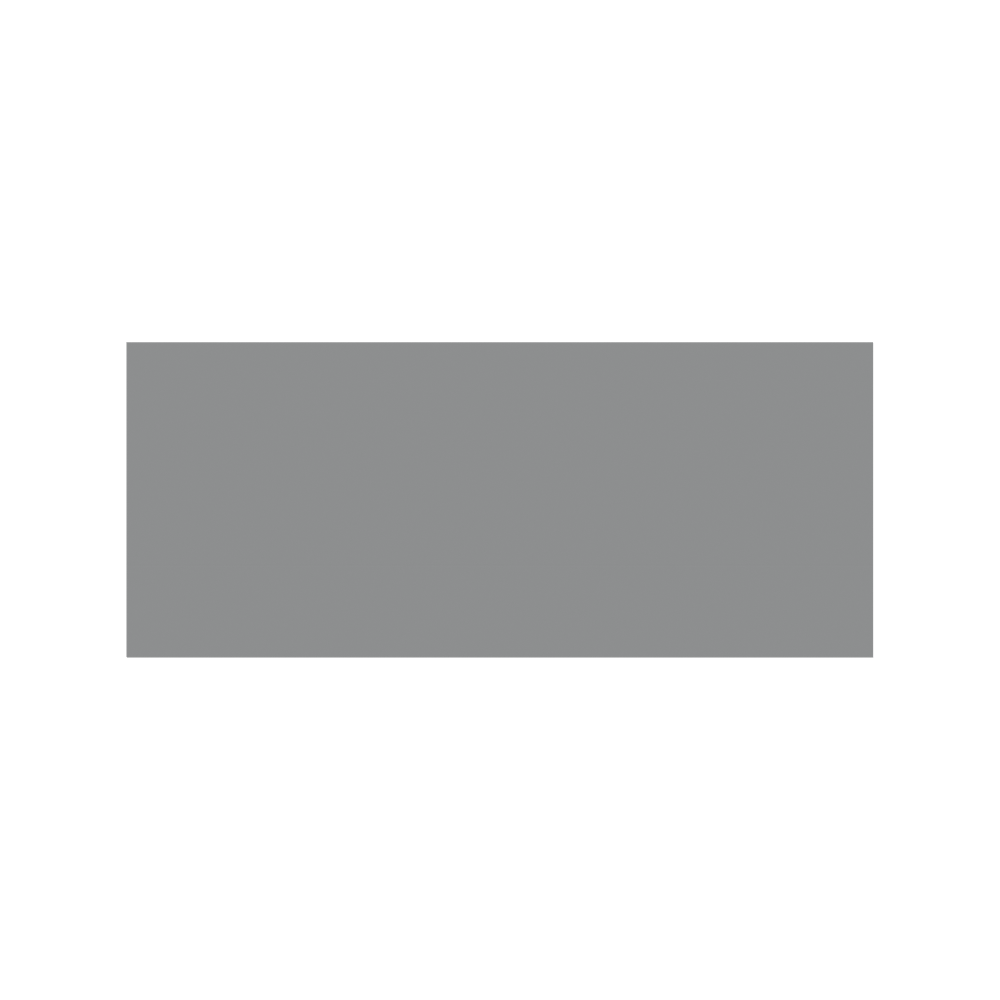
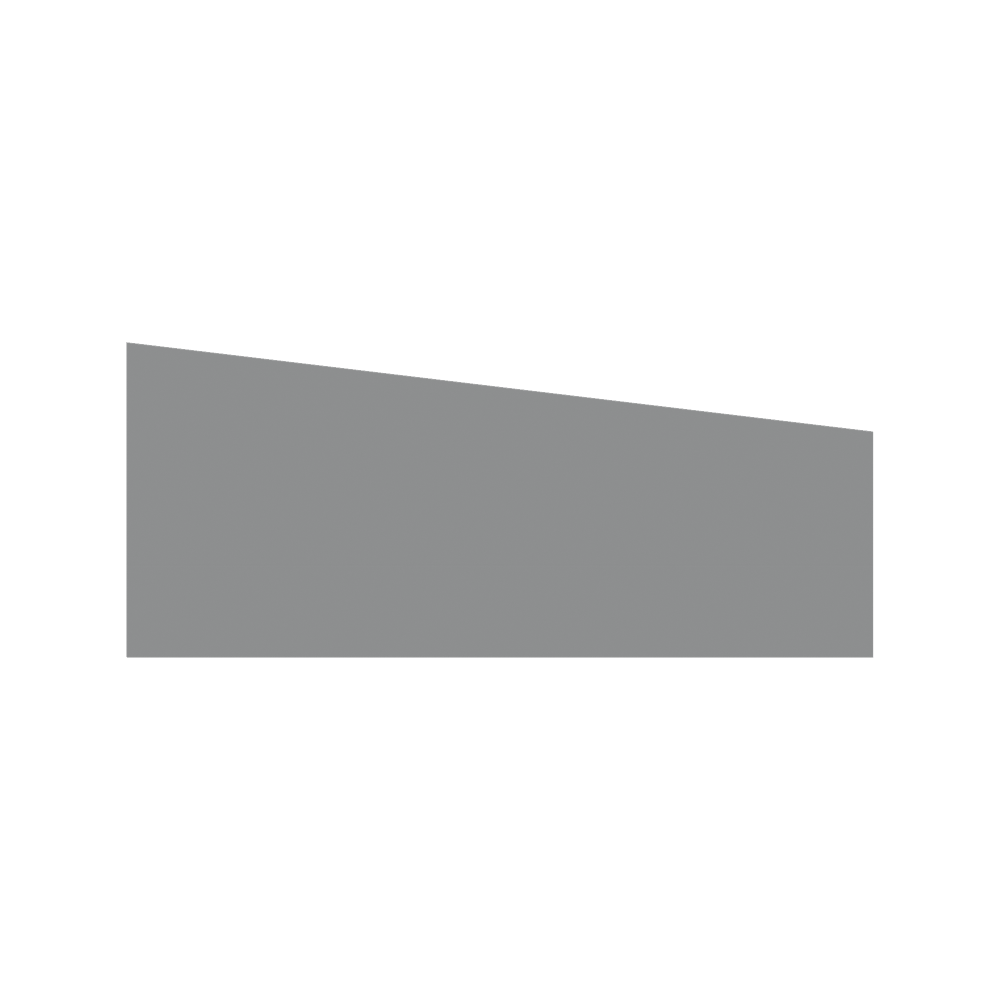
Taper the Scotch C38 shell roofline into a real wedge silhouette
decision_revision 0 -> 1, through a real DecisionTransaction (TAPER_SHELL_ROOFLINE).
Structurally clean, and now reads as a genuine wedge silhouette matching the reference's
gestalt.

Deliberately did not trace the roofline from ofix_clean_profile.jpg's pixels directly: the
traced curve peaks mid-object rather than sloping monotonically, which is the oblique
photo's own perspective foreshortening, not the object's real profile. Used a flagged 60%
visual estimate instead -- same reference-protocol judgment call already made once on the
MasterLock's negative-space decision.

Changed region(s): [[0.155, 0.341, 0.899, 0.434]]

diff --git a/runs/2026-08-21_scotch-c38-blockout/README.md b/runs/2026-08-21_scotch-c38-blockout/README.md
@@ -39,9 +39,24 @@ cavity, and cutter face -- start from here through `DecisionTransaction`, unlike
 build (which inherited pre-transaction-system geometry); this prop is typed from the very first
 shaping edit.
 
+## Shell taper (decision_revision 0 -> 1)
+
+Tapered `UpperShell_HIGH`'s roofline: moved the two front-top vertices down to 60% of the rear
+height, via a real `DecisionTransaction` (`TAPER_SHELL_ROOFLINE`). Structurally clean (0
+non-manifold, 0 degenerate) and now reads as a genuine wedge silhouette against the reference's
+gestalt in a front render.
+
+The 60% figure is a visual estimate, not measured. Directly tracing the roofline from
+`ofix_clean_profile.jpg`'s pixels was deliberately rejected as a method: the traced curve visibly
+*peaks* mid-object (min-y column around x=340-360, rising toward both ends) rather than sloping
+monotonically -- that shape is the oblique photo's own perspective foreshortening, not the object's
+real profile, and copying it would bake a camera artifact into the mesh. `docs/
+REFERENCE_COLLECTION_PROTOCOL.md`'s warning against tracing a perspective photo as if it were
+orthographic applies directly here, same as it did on the MasterLock's negative-space decision.
+
 ## Status
 
-Primary envelope blockout only. Not yet reviewable as "does this read as the object" -- a plain
-stacked box doesn't yet. Next decision: taper the shell's roofline (sloped from tall rear to lower
-front cutter face) per the reference photos, one bounded edit at a time, each rendered and checked
-before the next.
+Recognizable wedge silhouette established. Still open, in order: base footprint should probably
+taper too (currently a plain box, but the reference shows it narrowing toward the front to match
+the shell), the top cavity, the front cutter face, and the hub/tape-roll assembly. One bounded
+decision at a time, each rendered and checked before the next -- not attempted in this pass.
